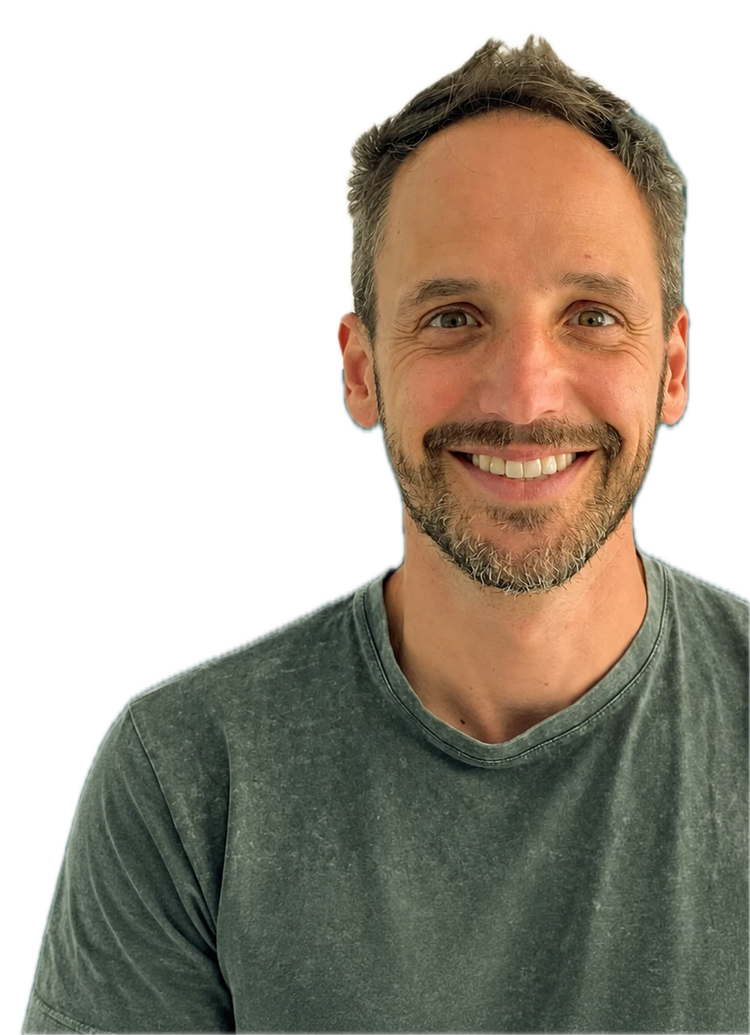
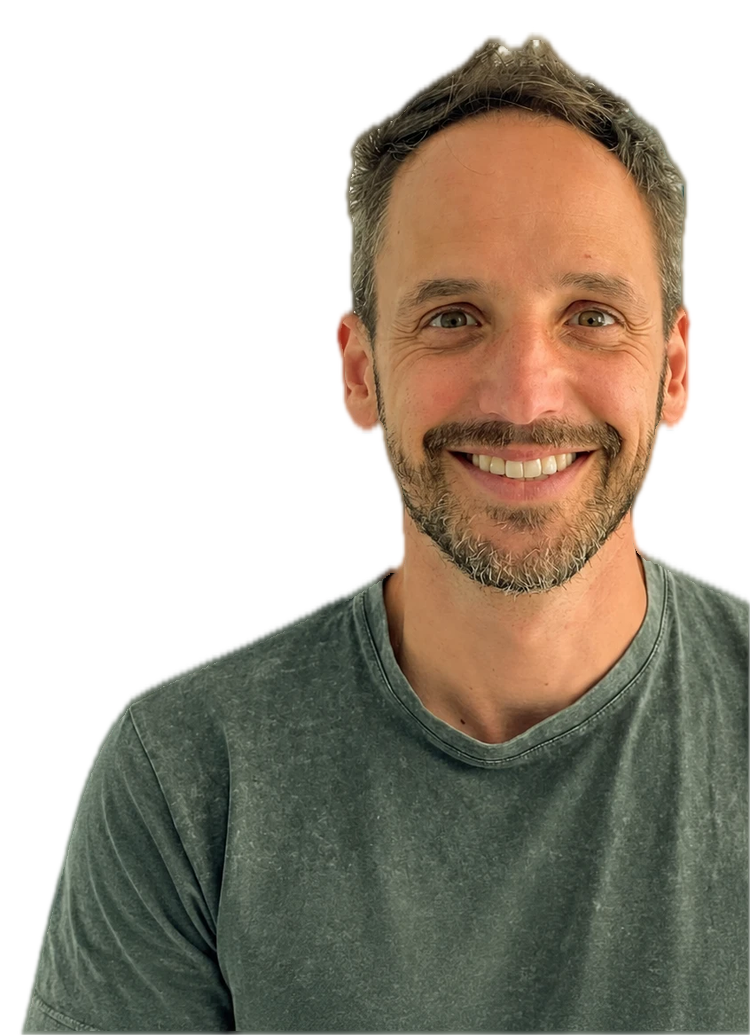
Clean up hero photo cutout and rework Así trabajo as a vertical timeline
- Defringe the hero photo: the cutout had a faint teal/dark halo left
  over from the original studio backdrop around hair and shoulders.
  Color-decontaminated the semi-transparent edge pixels so it blends
  cleanly into the page background, and bumped the display size ~20%
  (desktop is grid-column-constrained at that point; mobile max-width
  scaled proportionally).
- Replace the Así trabajo section's 4-card method grid with a vertical
  timeline (centered line, dot per stage, event title left / what the
  client gets right) covering the full client journey: Llamada gratis,
  Primera consulta, Tras la consulta, Programa de 12 semanas. Mobile
  falls back to a left-rail timeline. Rewrote the section's intro line
  to match the new starting point.

Claude-Session: https://claude.ai/code/session_01DnN3Tam13buBricv2YHgrr

diff --git a/index.html b/index.html
@@ -219,28 +219,53 @@
     <div class="section-head">
       <p class="eyebrow-note">Así trabajo</p>
       <h2>Un método pensado para semanas que se tuercen</h2>
-      <p class="lede">La primera consulta no empieza con un menú. Empieza por entender tu semana real y elegir los pocos cambios que más impacto van a tener. El objetivo final es que salgas con criterio propio, no dependiendo de un plan.</p>
+      <p class="lede">Desde la primera llamada hasta que gestionas tu semana solo. Así es el camino, paso a paso.</p>
     </div>
-    <div class="steps">
-      <div class="step">
-        <div class="step-num">01</div>
-        <h3>Tu semana, sobre la mesa</h3>
-        <p>En la primera consulta (45-60 minutos) revisamos horarios, compra, cenas, descanso, actividad y quién come qué en casa.</p>
+    <div class="timeline">
+      <div class="tl-item">
+        <div class="tl-title">Llamada gratis</div>
+        <div class="tl-rail"><span class="tl-dot"></span></div>
+        <div class="tl-detail">
+          <ul>
+            <li>Entendemos tu situación y objetivo.</li>
+            <li>Te cuento cómo trabajo.</li>
+            <li>Vemos si tiene sentido trabajar juntos.</li>
+          </ul>
+        </div>
       </div>
-      <div class="step">
-        <div class="step-num">02</div>
-        <h3>Tus mínimos</h3>
-        <p>Elegimos pocos cambios, los de más impacto para ti: qué cenar cuando no hay tiempo, cómo organizar la compra, cómo comer fuera de casa.</p>
+      <div class="tl-item">
+        <div class="tl-title">Primera consulta</div>
+        <div class="tl-rail"><span class="tl-dot"></span></div>
+        <div class="tl-detail">
+          <ul>
+            <li>Entendemos tu situación actual: comidas, horarios, ejercicio, sueño.</li>
+            <li>Mediciones y analítica que procedan.</li>
+            <li>Primeras pautas básicas.</li>
+          </ul>
+        </div>
       </div>
-      <div class="step">
-        <div class="step-num">03</div>
-        <h3>Comer para estar fuerte</h3>
-        <p>Ajustamos cuánta proteína comes, cómo la repartes y cómo te recuperas, para que tu cuerpo gane fuerza y no la pierda con los años. Si entrenas, o quieres empezar, te doy pautas sencillas para que encaje en tu semana.</p>
+      <div class="tl-item">
+        <div class="tl-title">Tras la consulta</div>
+        <div class="tl-rail"><span class="tl-dot"></span></div>
+        <div class="tl-detail">
+          <ul>
+            <li>Diagnóstico completo: composición corporal, hábitos y analítica.</li>
+            <li>Prioridades claras: qué cambiar primero y por qué.</li>
+            <li>Objetivo y plan para las próximas 12 semanas.</li>
+          </ul>
+        </div>
       </div>
-      <div class="step">
-        <div class="step-num">04</div>
-        <h3>12 semanas de seguimiento</h3>
-        <p>Revisión semanal y ajustes cuando la semana se tuerce, porque se va a torcer. Así los cambios se quedan.</p>
+      <div class="tl-item">
+        <div class="tl-title">Programa de 12 semanas</div>
+        <div class="tl-rail"><span class="tl-dot"></span></div>
+        <div class="tl-detail">
+          <ul>
+            <li>Videollamada semanal para ver avances y hacer ajustes.</li>
+            <li>Dudas urgentes por WhatsApp.</li>
+            <li>Aprendes lo que necesita tu cuerpo.</li>
+            <li>Acabas gestionando tu semana de manera totalmente autónoma.</li>
+          </ul>
+        </div>
       </div>
     </div>
   </section>

diff --git a/styles.css b/styles.css
@@ -68,7 +68,7 @@
   .hero .lede{font-size:1.05rem;color:var(--ink-soft);max-width:50ch;margin-bottom:0}
 
   .hero-right{display:flex;flex-direction:column;align-items:flex-end;text-align:right}
-  .hero-photo{width:100%;max-width:375px}
+  .hero-photo{width:100%;max-width:469px}
   .hero-photo img{
     width:100%;height:auto;display:block;
     -webkit-mask-image:linear-gradient(to bottom, black 90%, rgba(0,0,0,.75) 95%, rgba(0,0,0,.3) 98%, transparent 100%);
@@ -112,12 +112,18 @@
   .pain-list li{display:flex;gap:12px;color:rgba(249,241,232,.85);font-size:1.08rem}
   .pain-list li::before{content:"—";color:var(--peach);font-weight:800;flex-shrink:0}
 
-  /* ---------- cómo trabajo ---------- */
-  .steps{display:grid;grid-template-columns:1fr 1fr;gap:18px;margin-top:8px}
-  .step{background:var(--paper);border:1px solid var(--line);border-radius:24px;padding:30px 28px}
-  .step-num{font-size:2rem;font-weight:800;color:var(--terracotta);margin-bottom:12px}
-  .step h3{font-size:1.08rem;margin-bottom:6px;font-weight:700}
-  .step p{color:var(--muted);font-size:.92rem;margin:0}
+  /* ---------- cómo trabajo (timeline) ---------- */
+  .timeline{position:relative;margin-top:16px}
+  .timeline::before{content:"";position:absolute;left:50%;top:6px;bottom:6px;width:2px;background:var(--line);transform:translateX(-50%)}
+  .tl-item{display:grid;grid-template-columns:1fr 32px 1fr;column-gap:28px;align-items:start;padding:30px 0}
+  .tl-item:first-child{padding-top:0}
+  .tl-item:last-child{padding-bottom:0}
+  .tl-title{text-align:right;font-family:var(--font-display);font-weight:800;font-size:1.2rem;color:var(--ink);padding-top:1px}
+  .tl-rail{display:flex;justify-content:center;position:relative}
+  .tl-dot{width:16px;height:16px;border-radius:50%;background:var(--terracotta);box-shadow:0 0 0 4px var(--paper);margin-top:5px;position:relative;z-index:1}
+  .tl-detail ul{list-style:none;margin:0;padding:0;display:flex;flex-direction:column;gap:8px}
+  .tl-detail li{display:flex;gap:10px;color:var(--ink-soft);font-size:.96rem;line-height:1.5}
+  .tl-detail li::before{content:"—";color:var(--peach);font-weight:800;flex-shrink:0}
 
   /* ---------- para quién ---------- */
   .fit-grid{display:grid;grid-template-columns:1fr 1fr;gap:18px}
@@ -189,12 +195,17 @@
     .hero h1{font-size:clamp(2rem,7vw,2.5rem)}
     .hero .lede{max-width:none}
     .hero-right{align-items:flex-start;text-align:left}
-    .hero-photo{max-width:300px;margin:0 auto}
+    .hero-photo{max-width:375px;margin:0 auto}
     .hero-cta{align-items:stretch;max-width:none;width:100%}
     .hero-note{text-align:left}
     .info-row{grid-template-columns:1fr;gap:20px;margin-top:28px}
     .areas-wrap{padding:36px 22px;border-radius:24px}
-    .steps{grid-template-columns:1fr}
+    .timeline::before{display:none}
+    .tl-item{display:block;position:relative;padding:0 0 30px 26px;border-left:2px solid var(--line)}
+    .tl-item:last-child{border-color:transparent;padding-bottom:0}
+    .tl-item::before{content:"";position:absolute;left:-7px;top:2px;width:14px;height:14px;border-radius:50%;background:var(--terracotta);box-shadow:0 0 0 4px var(--paper)}
+    .tl-rail{display:none}
+    .tl-title{text-align:left;margin-bottom:10px}
     .fit-grid{grid-template-columns:1fr}
     .cta-final{padding:40px 24px;border-radius:24px}
     .cta-final .cta-actions{flex-direction:column}
